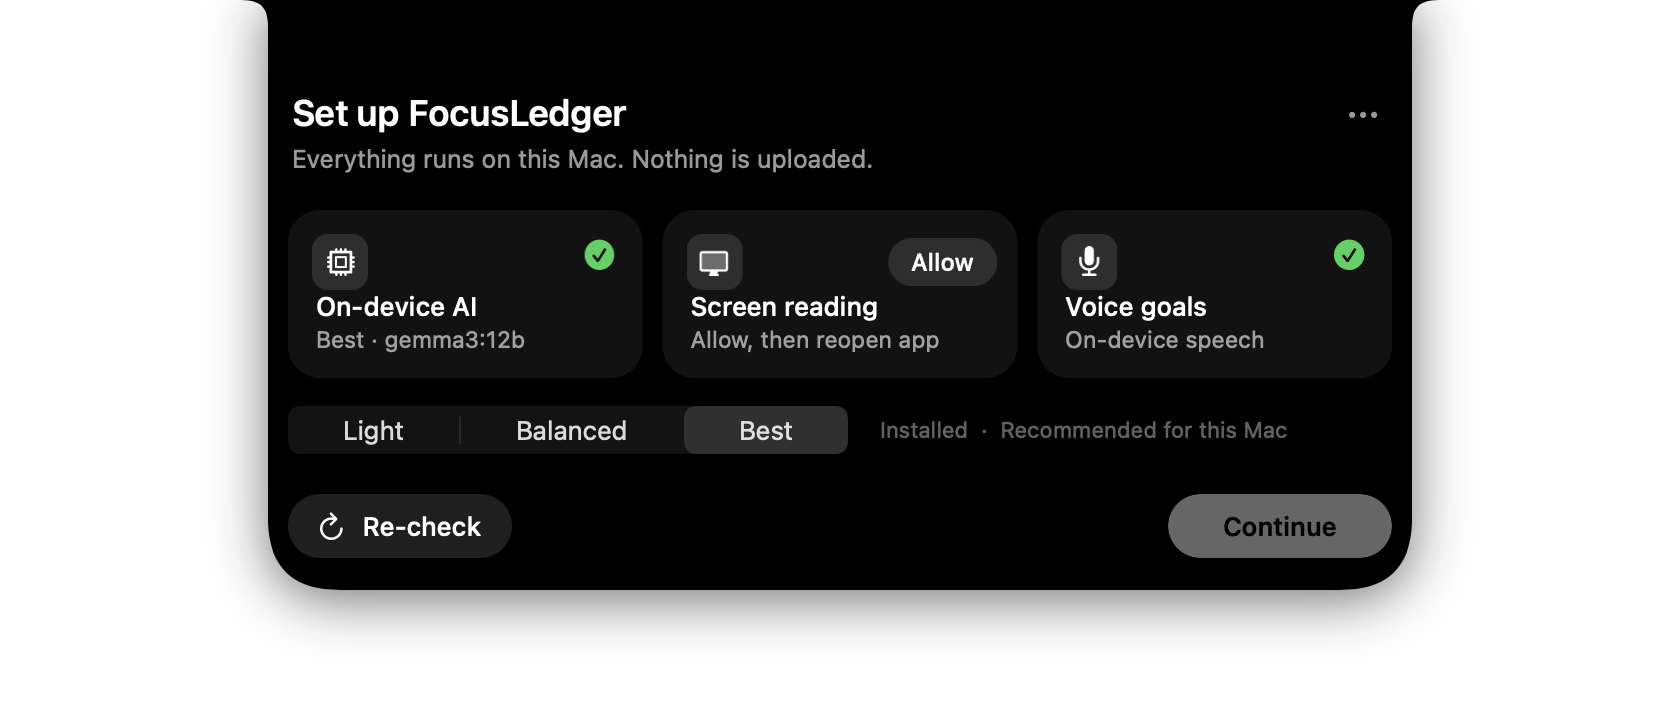
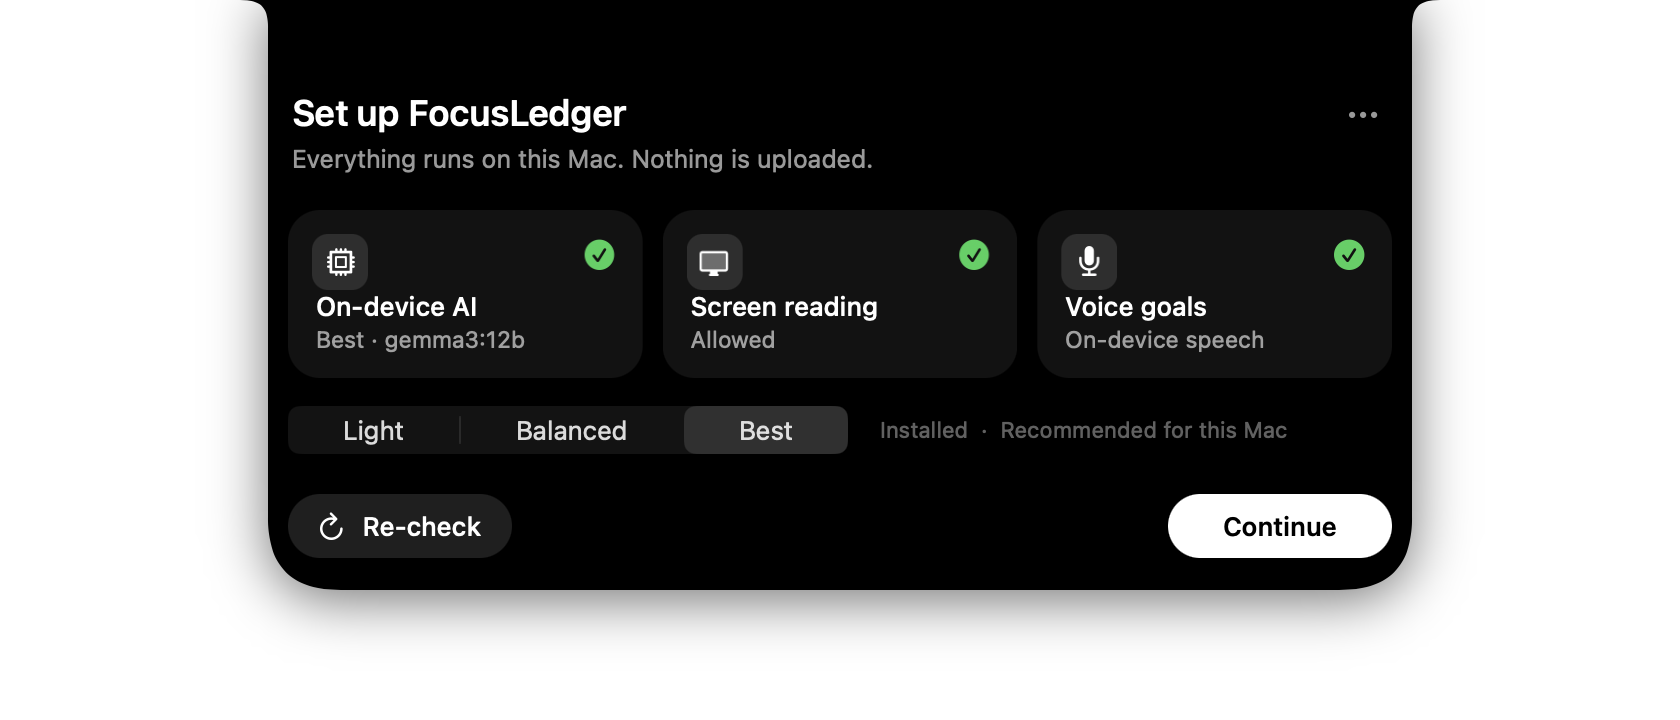
fix(setup): screen-permission check no longer misreads a flat menu bar as 'no access'
The setup card sampled only the top rows of the frame (the flat menu bar), so it
could report 'Needs access' with permission granted and leave Continue disabled.
It now trusts CGPreflightScreenCaptureAccess and falls back to a whole-frame sample.
The OCR preflight now reads an image it draws itself instead of live screen text,
which failed on an empty desktop.

Changed region(s): [[0.681, 0.6722, 0.8357, 0.7944], [0.5262, 0.3056, 0.619, 0.3972], [0.4333, 0.4583, 0.5571, 0.4889]]

diff --git a/verify_setup.py b/verify_setup.py
@@ -56,7 +56,7 @@ def c_screen():
     with mss.MSS() as sct:
         img = sct.grab(sct.monitors[1])
     px = img.rgb
-    distinct = len(set(px[i:i + 3] for i in range(0, min(len(px), 300000), 3)))
+    distinct = len(set(px[i:i + 3] for i in range(0, len(px), 3 * 997)))   # whole frame, not just the menu bar
     ok = distinct >= 5
     return ok, (f"{img.size.width}x{img.size.height}, {distinct} distinct colors"
                 if ok else "frame looks blank — grant Screen Recording in "
@@ -65,16 +65,30 @@ def c_screen():
 
 # ------------------------------------------------------------------ ocr ----
 def c_ocr():
-    import mss, mss.tools
+    """Vision OCR on an image we draw ourselves, so the result never depends on
+    what happens to be on screen (an empty desktop has no text to read)."""
+    import AppKit
     import vision_ocr
+    w, h = 900, 160
+    rep = AppKit.NSBitmapImageRep.alloc().initWithBitmapDataPlanes_pixelsWide_pixelsHigh_bitsPerSample_samplesPerPixel_hasAlpha_isPlanar_colorSpaceName_bytesPerRow_bitsPerPixel_(
+        None, w, h, 8, 4, True, False, AppKit.NSDeviceRGBColorSpace, 0, 0)
+    ctx = AppKit.NSGraphicsContext.graphicsContextWithBitmapImageRep_(rep)
+    AppKit.NSGraphicsContext.saveGraphicsState()
+    AppKit.NSGraphicsContext.setCurrentContext_(ctx)
+    AppKit.NSColor.whiteColor().set()
+    AppKit.NSRectFill(AppKit.NSMakeRect(0, 0, w, h))
+    AppKit.NSAttributedString.alloc().initWithString_attributes_(
+        "FocusLedger reads text on this Mac",
+        {AppKit.NSFontAttributeName: AppKit.NSFont.systemFontOfSize_(44),
+         AppKit.NSForegroundColorAttributeName: AppKit.NSColor.blackColor()}
+    ).drawAtPoint_(AppKit.NSMakePoint(20, 55))
+    AppKit.NSGraphicsContext.restoreGraphicsState()
     d = tempfile.mkdtemp()
-    p = os.path.join(d, "s.png")
-    with mss.MSS() as sct:
-        img = sct.grab(sct.monitors[1])
-    mss.tools.to_png(img.rgb, img.size, output=p)
+    p = os.path.join(d, "ocr.png")
+    rep.representationUsingType_properties_(AppKit.NSBitmapImageFileTypePNG, None).writeToFile_atomically_(p, True)
     text = vision_ocr.ocr(p)
     shutil.rmtree(d, ignore_errors=True)
-    return len(text) > 20, f"{len(text)} chars recognised"
+    return "FocusLedger" in text, f"read back: {text.strip()[:60]!r}"
 
 
 # -------------------------------------------------------------- dictate ----

diff --git a/notch.py b/notch.py
@@ -162,16 +162,17 @@ def check_system_readiness():
     ai = gemma.check_ollama(timeout=1.2)
     ai_ok = ai["server_ok"] and ai["model_ok"]
 
+    # Trust macOS's own answer when it gives one. The pixel check is a fallback for
+    # older systems, and samples the whole frame: the top rows alone are the flat
+    # menu bar, which reads as "blank" even when permission is granted.
     screen_ok = False
     try:
-        preflight_ok = True
         if hasattr(Quartz, "CGPreflightScreenCaptureAccess"):
-            preflight_ok = bool(Quartz.CGPreflightScreenCaptureAccess())
-        with mss.MSS() as sct:
-            img = sct.grab(sct.monitors[1])
-        px = img.rgb
-        distinct = len(set(px[i:i + 3] for i in range(0, min(len(px), 150000), 3)))
-        screen_ok = preflight_ok and distinct >= 5
+            screen_ok = bool(Quartz.CGPreflightScreenCaptureAccess())
+        else:
+            with mss.MSS() as sct:
+                px = sct.grab(sct.monitors[1]).rgb
+            screen_ok = len(set(px[i:i + 3] for i in range(0, len(px), 3 * 997))) >= 5
     except Exception:
         screen_ok = False
 

diff --git a/README.md b/README.md
@@ -60,7 +60,7 @@ your goals  →  idle gate  →  OCR (image deleted)  →  Gemma verdict  →  r
 
 <div align="center">
   <img src="docs/images/notch-setup.png" width="640" alt="The notch setup screen: on-device AI, screen reading and voice goals, with a Light, Balanced, Best model picker">
-  <br><sub>First launch. Screen reading shows "Allow, then reopen app" until you grant Screen Recording.</sub>
+  <br><sub>First launch with everything ready. Until Screen Recording is granted, the middle card reads "Allow, then reopen app".</sub>
 </div>
 
 ---
